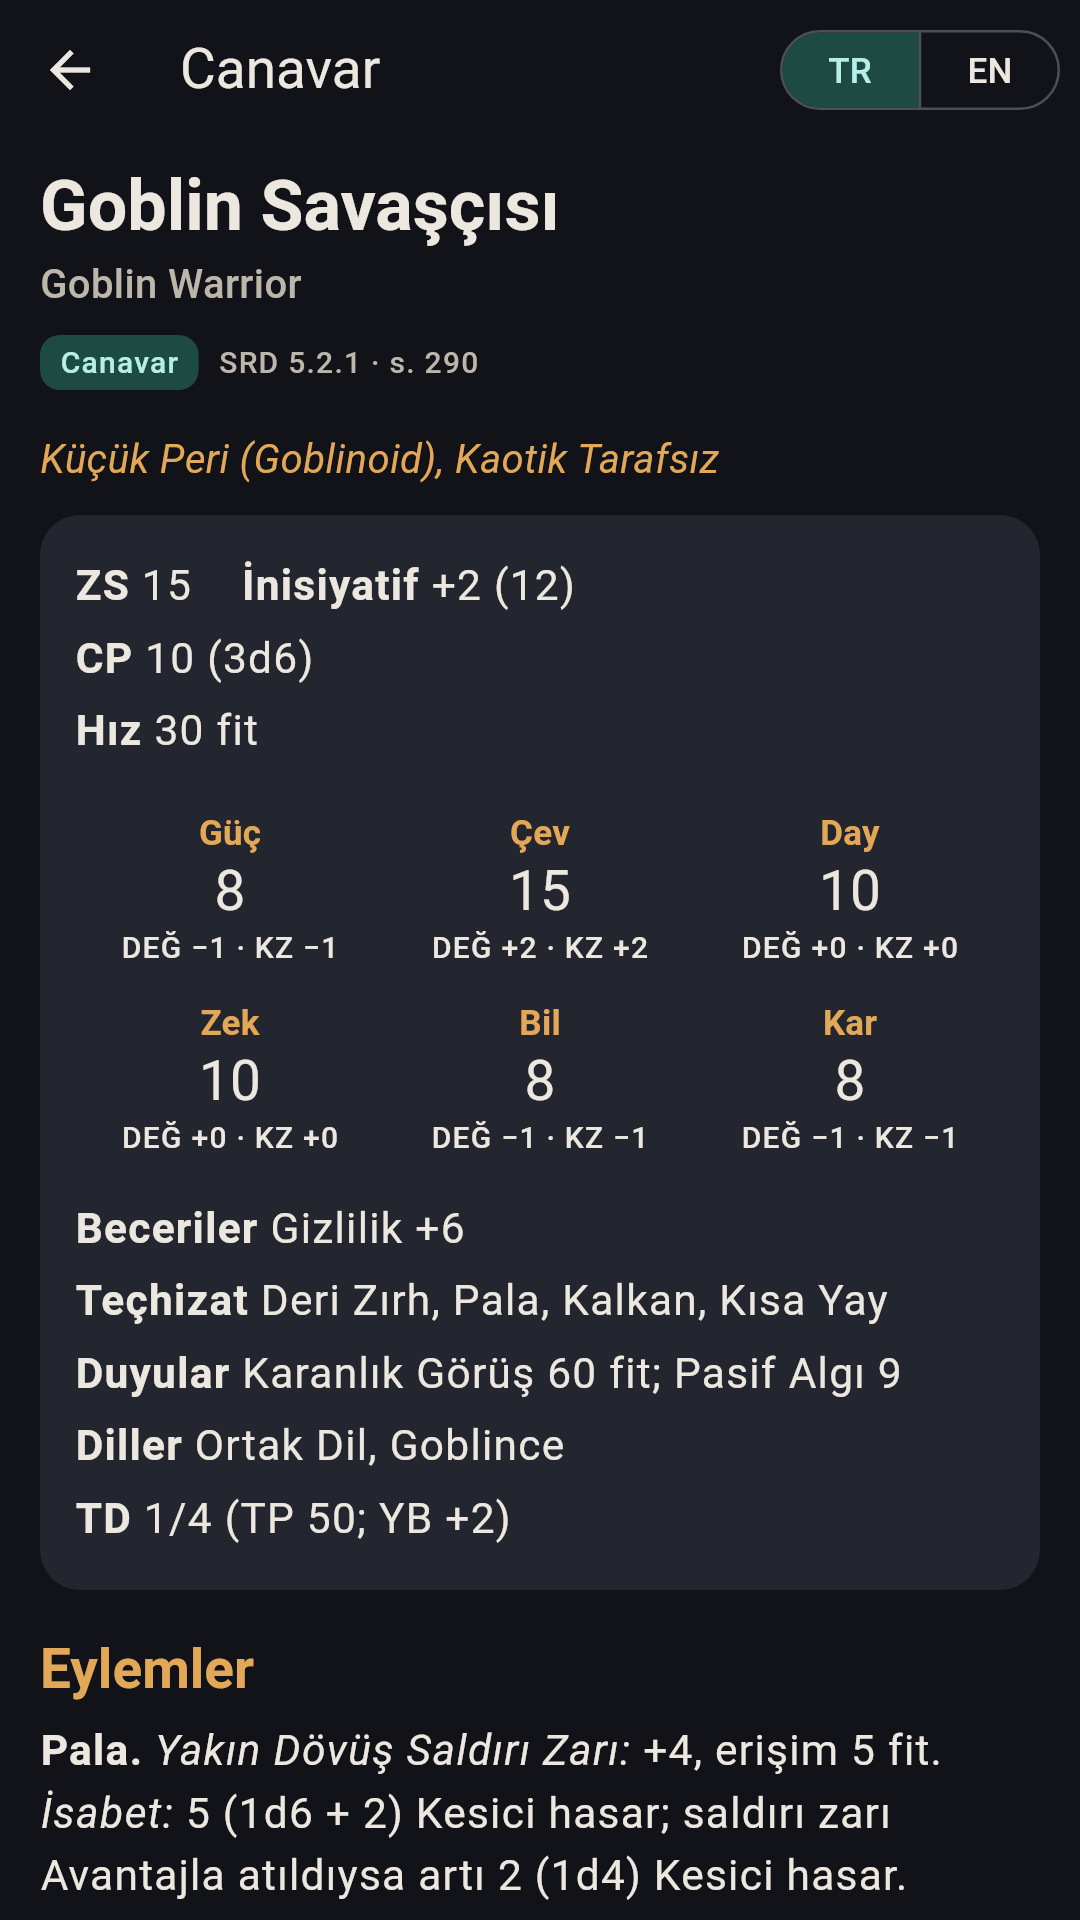
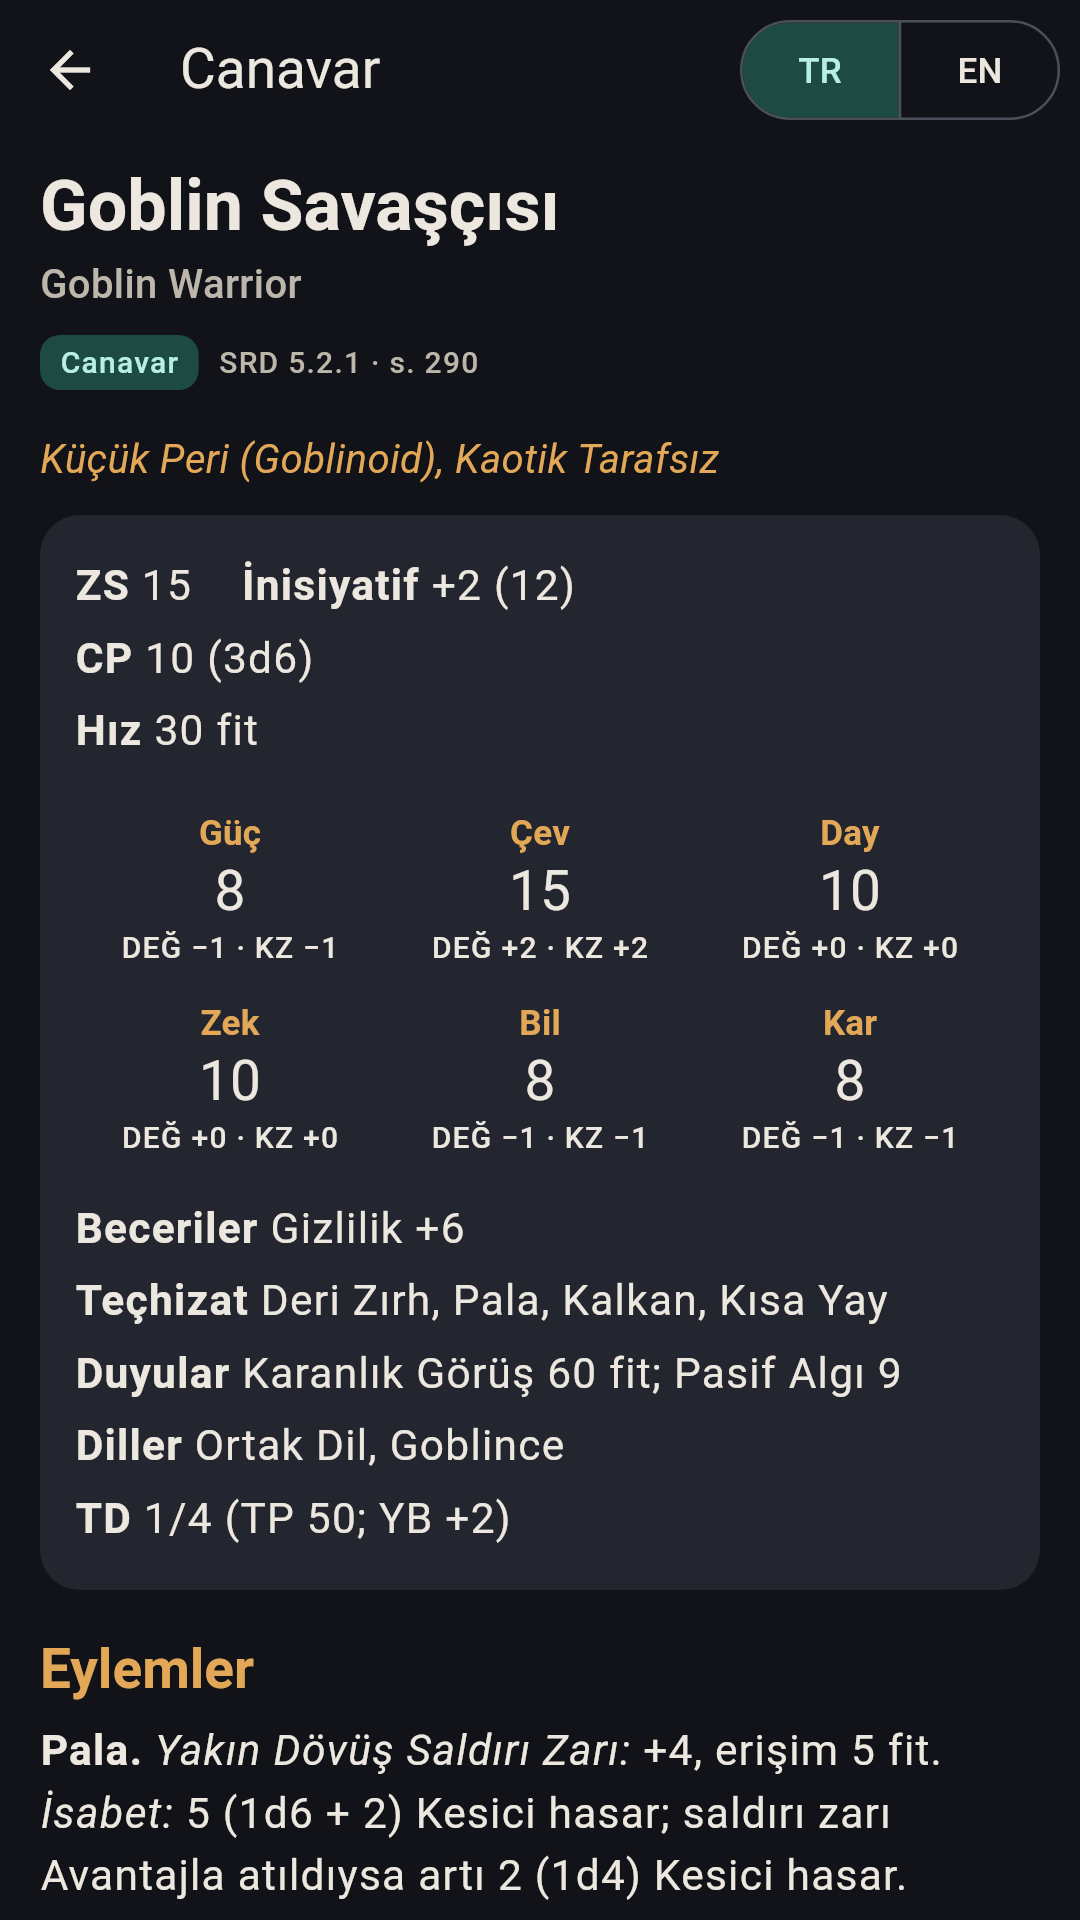
Docs: review fixes (#28–#30), refreshed screenshots
- decisions.md and status.md: what the review changed (turn order rule,
  "Haritayı tut", portrait lock on phones, search stems, online session
  after a 410, job deadline) and what is still open.
- docs/screenshots and the store screenshots regenerated from main.

Claude-Session: https://claude.ai/code/session_011u662hPG4o5vaaGm7pS7q9

Changed region(s): [[0.6722, 0.0, 0.8556, 0.0625], [0.8861, 0.0, 0.9778, 0.0625]]

diff --git a/docs/decisions.md b/docs/decisions.md
@@ -119,6 +119,15 @@ olarak işaretlenir ve ürün sahibine sorulur.
 - 2026-11-09 — Kilitli ad soyu ve cinsiyeti de korur (ad soya uysun); bu sırada soy/cinsiyet filtreleri kapalıdır ve ekranda söylenir. Kilitli görünüş yeni soya uymuyorsa (Ejderdoğan'da saç, Elf'te kuyruk zili) yeniden üretilir; uyuyorsa korunur. Görünüş satırları her cinsiyete uyar; cüce sakal satırı da kadın cüceler için geçerlidir (bilinçli seçim).
 - 2026-11-09 — Tutarlılık kuralları: iki karşıt özellik birlikte gelmez (`npcOppositeTraits`), lakap özellikle çelişmez ("Kurnaz" + "saf" yok, `npcEpithetClashes`), soyadı verilen adı tekrarlamaz ("Fındık Fındıkdibi" yok). Gerçek dinî topluluk çağrışımı yapan sözcükler ("tarikat") kullanılmaz.
 
+## İnceleme düzeltmeleri (2026-11-12, #28–#30)
+
+- 2026-11-12 — Tur sırası: sıra işareti katılımcıyı her yeniden sıralamada izler; o tur kimlerin oynadığı ayrıca tutulur (ayarlar tablosunda `initiativeActed`, şema değişmedi). "Sonraki" sıradaki henüz oynamamış ilk katılımcıya geçer, herkes oynadıysa yeni tur başlar; "Önceki" oynanan sıraları geri yürür. Sonuç: tur ortasında işaretin üstüne eklenen katılımcı o tur oynar. Eşit inisiyatifler `sortOrder` ile elle sıralanır.
+- 2026-11-12 — "Yeni karşılaşma" neyin silineceğini söyler; "Haritayı tut" çizgileri, alanları ve en yeni bildirilmemiş resmi yeni karşılaşmaya taşır. Jetonlar sıfırlanır.
+- 2026-11-12 — Telefonlar (kısa kenar < 600 dp) dikeye kilitli, tabletler serbest; iPhone `Info.plist`'te yalnızca dikey. Yatay telefon düzeni ayrıca tasarlanana kadar böyle kalır.
+- 2026-11-12 — Arama: çekimli sorgular için ek soyma (`trStems`, üç eke kadar; yalnızca yazıldığı gibi adıyla eşleşen kayıt yoksa). Sözlük terimleri adıyla eşleşen kayıtların altında. Sonuç sınırı görünür ("892 sonuçtan ilk 60", "Daha fazla göster"). Arama süresi yalnızca dahili derlemede.
+- 2026-11-12 — Çevrimiçi oturum: heartbeat'te `410` gelince oturum boşta kalır, bir sonraki gerekli kullanıcı eyleminde açılır (GPU boşuna sıcak tutulmaz). Her işe toplam 4 dakikalık tek süre sınırı. Çıkış ve hesap silme ekrandan bağımsız yürür. Bildirilen resmin baytları silinir; karşılaşma başına son 5 resim tutulur.
+- 2026-11-12 — Kayıt, arama ve göz at listeleri tablette 720 dp'lik ortalanmış sütunda; iki bölmeli tablet düzeni ayrı bir iş.
+
 ## Onay bekleyenler
 
 - 2026-11-09 — Kalan içeriğin tamamı makine destekli çevrildi; mağaza metinleri ve Ayarlar notu bunu açıkça söyler, "kusursuz/resmî çeviri" denmez. İnsan incelemesi sonraki adım.

diff --git a/docs/status.md b/docs/status.md
@@ -1,6 +1,26 @@
 # Durum
 
-Son güncelleme: 2026-11-09 (SRD içeriğinin tamamı Türkçe)
+Son güncelleme: 2026-11-12 (uygulama incelemesi ve düzeltmeleri)
+
+## Uygulama incelemesi (2026-11-12, #28–#30)
+
+Uygulama telefon, tablet ve büyük yazı boyutunda gezildi; kod üç alanda incelendi. Çökme bulunmadı.
+Test çalıştırılarak doğrulanan hatalar üç PR'da düzeltildi (428 test):
+
+- **Arama ve kayıt sayfaları (#28):** çekimli Türkçe sorgular, telefonda taşan tablolar, sınıf
+  sayfalarındaki İngilizce etiketler, çalışmayan "ayrıca bak" bağlantıları, büyük yazıda göz at
+  ızgarası, tablette okuma genişliği, görünmeyen sonuç sınırı.
+- **Harita ve çevrimiçi sahne (#29):** yarım kalabilen çıkış/hesap silme, süresi dolmayan iş,
+  boşta GPU'yu sıcak tutan oturum, cihazda kalan bildirilmiş resim, etiketsiz alan renkleri,
+  kalemle gezinirken tüm haritanın yeniden çizilmesi, giriş sayfası ve onay boşlukları.
+- **İnisiyatif, zar, ekran yönü (#30):** haritayı uyarısız silen "Yeni karşılaşma", atlanan
+  sıralar, eşitlik sıralama, katılımcı düzenleme, klavyeyle taşan zar paneli, yatayda
+  kullanılamayan telefon düzeni (telefonlar dikeye kilitlendi).
+
+Açık kalanlar (karar ya da ayrı iş): test APK'ları için sabit imza anahtarı, yenileme yanıtı
+kaybolunca yeniden giriş (sunucuda tolerans süresi), çevrimiçi sürüm için mağaza metinleri,
+APK boyutu (yalnızca ARM), yedekleme/dışa aktarma, kendi resmini harita olarak yükleme.
+
 
 ## Kenar kutuları ve kalan SRD bölümleri (dal `claude/srd-remaining`, #19, #20)
 
